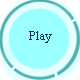
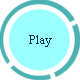
Menu and stuff
I finished implementing the Main menu.
I changed the images for the buttons and added a title card.
I also fixed the issue with the plane flying offscreen.

diff --git a/planegame/src/planegame/MyGameFrame.java b/planegame/src/planegame/MyGameFrame.java
@@ -21,65 +21,83 @@ public class MyGameFrame extends Frame implements MouseListener{
 	Image planeImage = GameUtil.getImage("images/plane.png");
 	Image bg = GameUtil.getImage("images/bg.jpg");
 	Image playButtonImage = GameUtil.getImage("images/Play Button.png");
+	Image tryAgainImage = GameUtil.getImage("images/Try Again.png");
+	Image menuButtonImage = GameUtil.getImage("images/Main Menu.png");
+	Image title = GameUtil.getImage("images/Title.png");
 
 	Plane plane = new Plane(planeImage, 450, 450);
 	Bullet[] bullets = new Bullet[15];
-	Button button = new Button(playButtonImage, 210, 300);
+	Button playButton = new Button(playButtonImage, 210, 300);
+	Button tryAgainButton = new Button(tryAgainImage, 150, 300);
+	Button menuButton = new Button(menuButtonImage, 250, 300);
 
 	Explode explosion;
 
-	Date startTime = new Date();
+	Date startTime;
 	Date endTime;
 	int period;
+	
+	boolean firstTry = true;
 
 	@Override
 	public void paint(Graphics g) {
 		Color c = g.getColor();
 		g.drawImage(bg, 0, 0, null);
 		
-		if (!button.isPlay()) {
-			button.drawSelf(g);
+		if (!playButton.isPlay()) {
+			g.drawImage(title, 50, 50, null);
+			playButton.drawSelf(g);
 		}
+		
+		if (playButton.isPlay()) {
+			playGame(g, c);
+		}
+	}
 
-		if (button.isPlay()) {
-			
-			plane.drawSelf(g);
+	private void playGame(Graphics g, Color c) {
+		
+		if (startTime == null) {
+			startTime = new Date();
+		}
+		
+		plane.drawSelf(g);
 
-			for (int i = 0; i < bullets.length; i++) {
+		for (int i = 0; i < bullets.length; i++) {
 
-				bullets[i].draw(g);
+			bullets[i].draw(g);
 
-				boolean crash = bullets[i].getRect().intersects(plane.getRect());
+			boolean crash = bullets[i].getRect().intersects(plane.getRect());
 
-				if (crash) {
-					plane.live = false;
-					if (explosion == null) {
+			if (crash) {
+				plane.live = false;
+				if (explosion == null) {
 
-						explosion = new Explode(plane.x, plane.y);
+					explosion = new Explode(plane.x, plane.y);
 
-						endTime = new Date();
+					endTime = new Date();
 
-						period = (int) ((endTime.getTime() - startTime.getTime()) / 1000);
-
-					}
-
-					explosion.draw(g);
-				}
-
-				if (!plane.live) {
-					g.setColor(Color.WHITE);
-					Font f = new Font("Serif", Font.BOLD, 50);
-					g.setFont(f);
-					g.drawString("Time: " + period + " second", 100, 200);
-					Font f2 = new Font("Serif", Font.BOLD, 30);
-					g.setFont(f2);
+					period = (int) ((endTime.getTime() - startTime.getTime()) / 1000);
 
 				}
 
+				explosion.draw(g);
 			}
 
-			g.setColor(c);
+			if (!plane.live) {
+				g.setColor(Color.WHITE);
+				Font f = new Font("Serif", Font.BOLD, 50);
+				g.setFont(f);
+				g.drawString("Time: " + period + " second", 100, 200);
+				Font f2 = new Font("Serif", Font.BOLD, 30);
+				g.setFont(f2);
+
+				tryAgainButton.drawSelf(g);
+				menuButton.drawSelf(g);
+			}
+
 		}
+
+		g.setColor(c);
 	}
 
 	class PaintThread extends Thread {
@@ -113,6 +131,7 @@ public class MyGameFrame extends Frame implements MouseListener{
 		setTitle("Team project");
 		// set to visible to true
 		setVisible(true);
+		if (firstTry) {
 		// set size
 		setSize(500, 500);
 		// set location;
@@ -129,7 +148,6 @@ public class MyGameFrame extends Frame implements MouseListener{
 			new PaintThread().start();// active repaint window
 			addKeyListener(new KeyMonitor());// give window add key monitor
 
-			if (button.isPlay()) {
 			for (int i = 0; i < bullets.length; i++) {
 				bullets[i] = new Bullet();
 			}
@@ -156,11 +174,38 @@ public class MyGameFrame extends Frame implements MouseListener{
 
 	@Override
 	public void mouseClicked(MouseEvent e) {
-		if (getX() >= (int)button.x ) {
-			System.out.println("Clicked: " + getX() + "   button.x: " + button.x + "    button.y: " + button.y);
+		if (!playButton.isPlay()) {
+			if ((e.getX() >= (int)playButton.x && e.getX() <= ((int)playButton.x + playButton.width)) && (e.getY() >= (int)playButton.y && e.getY() <= ((int)playButton.y + playButton.height))) {
+				playButton.setPlay(true);
+			}
 		}
 		
-		
+		if (!plane.live) {
+			if ((e.getX() >= (int)tryAgainButton.x && e.getX() <= ((int)tryAgainButton.x + tryAgainButton.width)) && (e.getY() >= (int)tryAgainButton.y && e.getY() <= ((int)tryAgainButton.y + tryAgainButton.height))) {
+				firstTry = false;
+				plane.live = true;
+				plane.x = 450;
+				plane.y = 450;
+				explosion = null;
+				startTime = null;
+				for (int i = 0; i < bullets.length; i++) {
+					bullets[i].reset();
+				}
+				launchFrame();
+			}
+			if ((e.getX() >= (int)menuButton.x && e.getX() <= ((int)menuButton.x + menuButton.width)) && (e.getY() >= (int)menuButton.y && e.getY() <= ((int)menuButton.y + menuButton.height))) {
+				firstTry = false;
+				plane.live = true;
+				plane.x = 450;
+				plane.y = 450;
+				explosion = null;
+				startTime = null;
+				for (int i = 0; i < bullets.length; i++) {
+					bullets[i].reset();
+				}
+				playButton.setPlay(false);
+			}
+		}
 	}
 
 	@Override

diff --git a/planegame/src/planegame/Plane.java b/planegame/src/planegame/Plane.java
@@ -20,16 +20,32 @@ import java.awt.event.KeyEvent;
 				
 			g.drawImage(img, (int) x, (int) y, null);
 			if(left) {
+				if (x<0) {
+					x+=speed;
+				} else {
 				x-=speed;
+				}
 			}
 			if(right) {
+				if (x>Constant.GAME_WIDTH-width) {
+					x-=speed;
+				} else {
 				x+=speed;
+				}
 			}
 			if(up) {
+				if (y<30) {
+					y+=speed;
+				} else {
 				y-=speed;
+				}
 			}
 			if(down) {
+				if (y>Constant.GAME_HEIGHT-height) {
+					y-=speed;
+				} else {
 				y+=speed;
+				}
 			}
 			
 			}

diff --git a/planegame/src/planegame/Button.java b/planegame/src/planegame/Button.java
@@ -14,6 +14,13 @@ public class Button extends GameObject{
 		return play;
 	}
 
+	/**
+	 * @param play the play to set
+	 */
+	public void setPlay(boolean play) {
+		this.play = play;
+	}
+
 	public Button(Image img, double x, double y) {
 		this.img = img;
 		this.x=x;
@@ -25,9 +32,7 @@ public class Button extends GameObject{
 	
 	public void drawSelf(Graphics g) {
 		
-		if (!play) {
 			g.drawImage(img, (int) x, (int) y, null);
-		}
 	}
 
 }

diff --git a/planegame/src/planegame/Bullet.java b/planegame/src/planegame/Bullet.java
@@ -24,6 +24,12 @@ public class Bullet extends GameObject {
 		degree = Math.random( ) * Math.PI * 2;
 	}
 	
+	public void reset() {
+		x = 200;
+		y = 200;
+		speed = 4;
+		degree = Math.random( ) * Math.PI * 2;
+	}
 	
 	public void draw(Graphics g) {
 		Color c = g.getColor();
